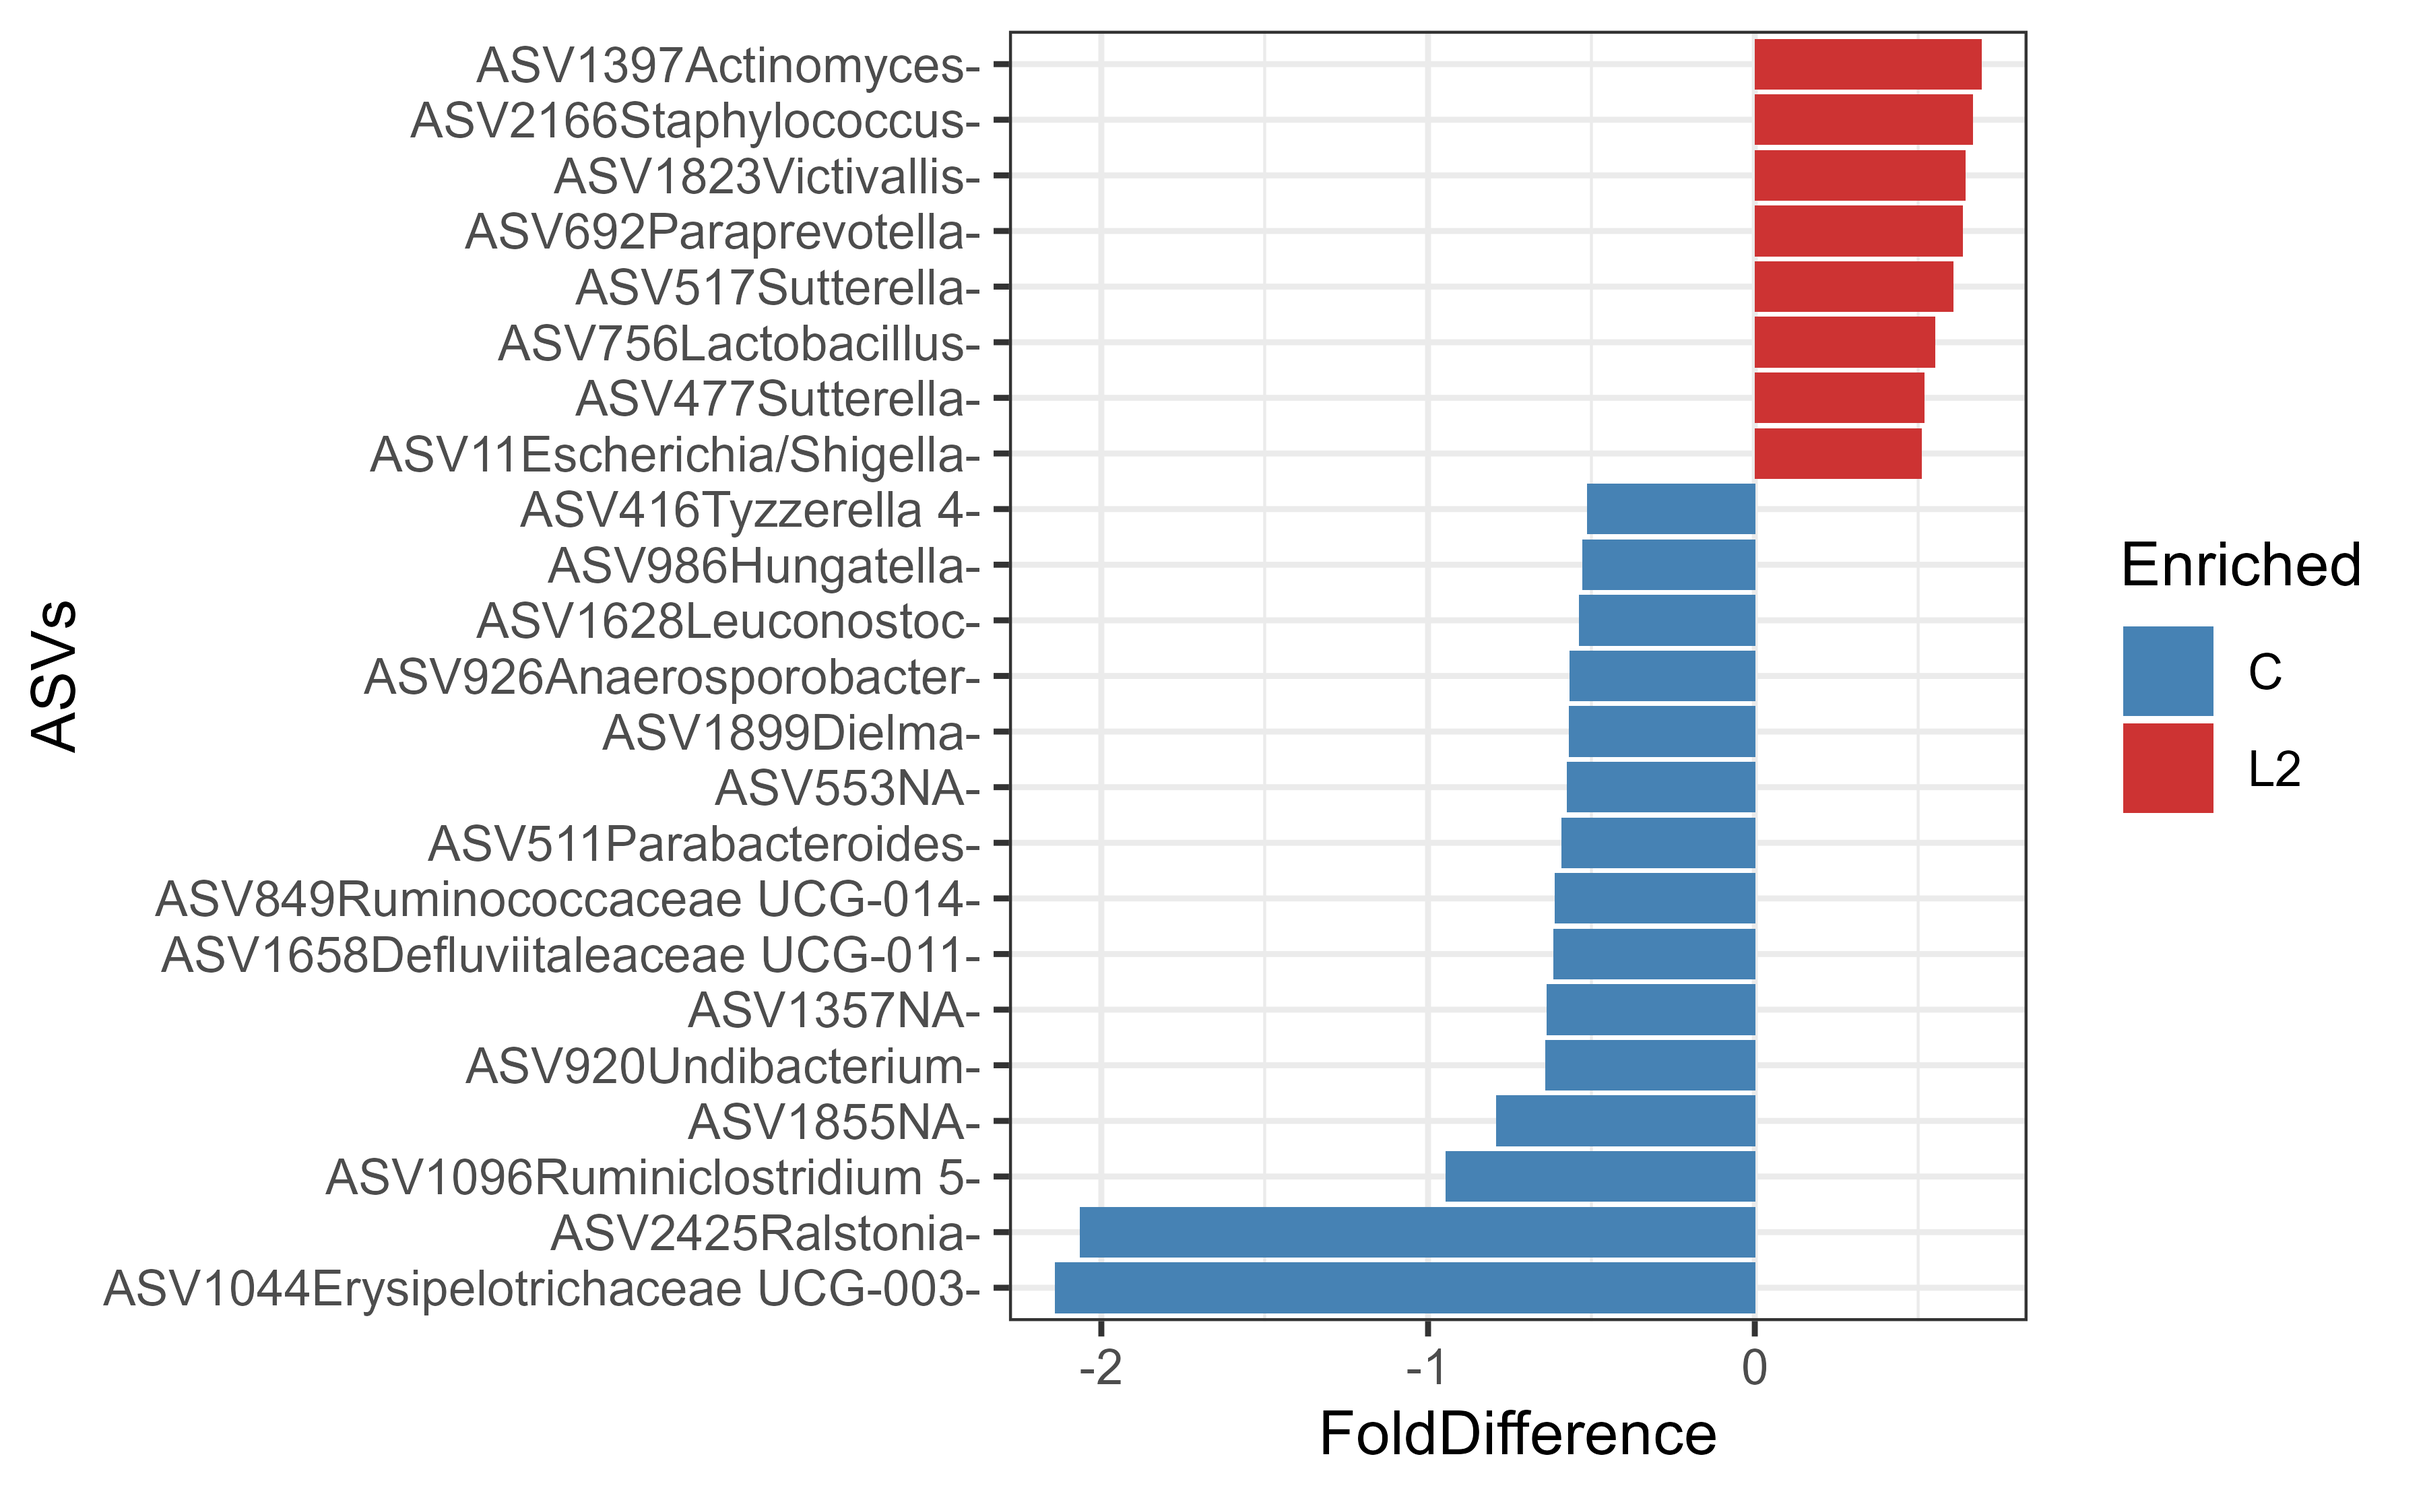
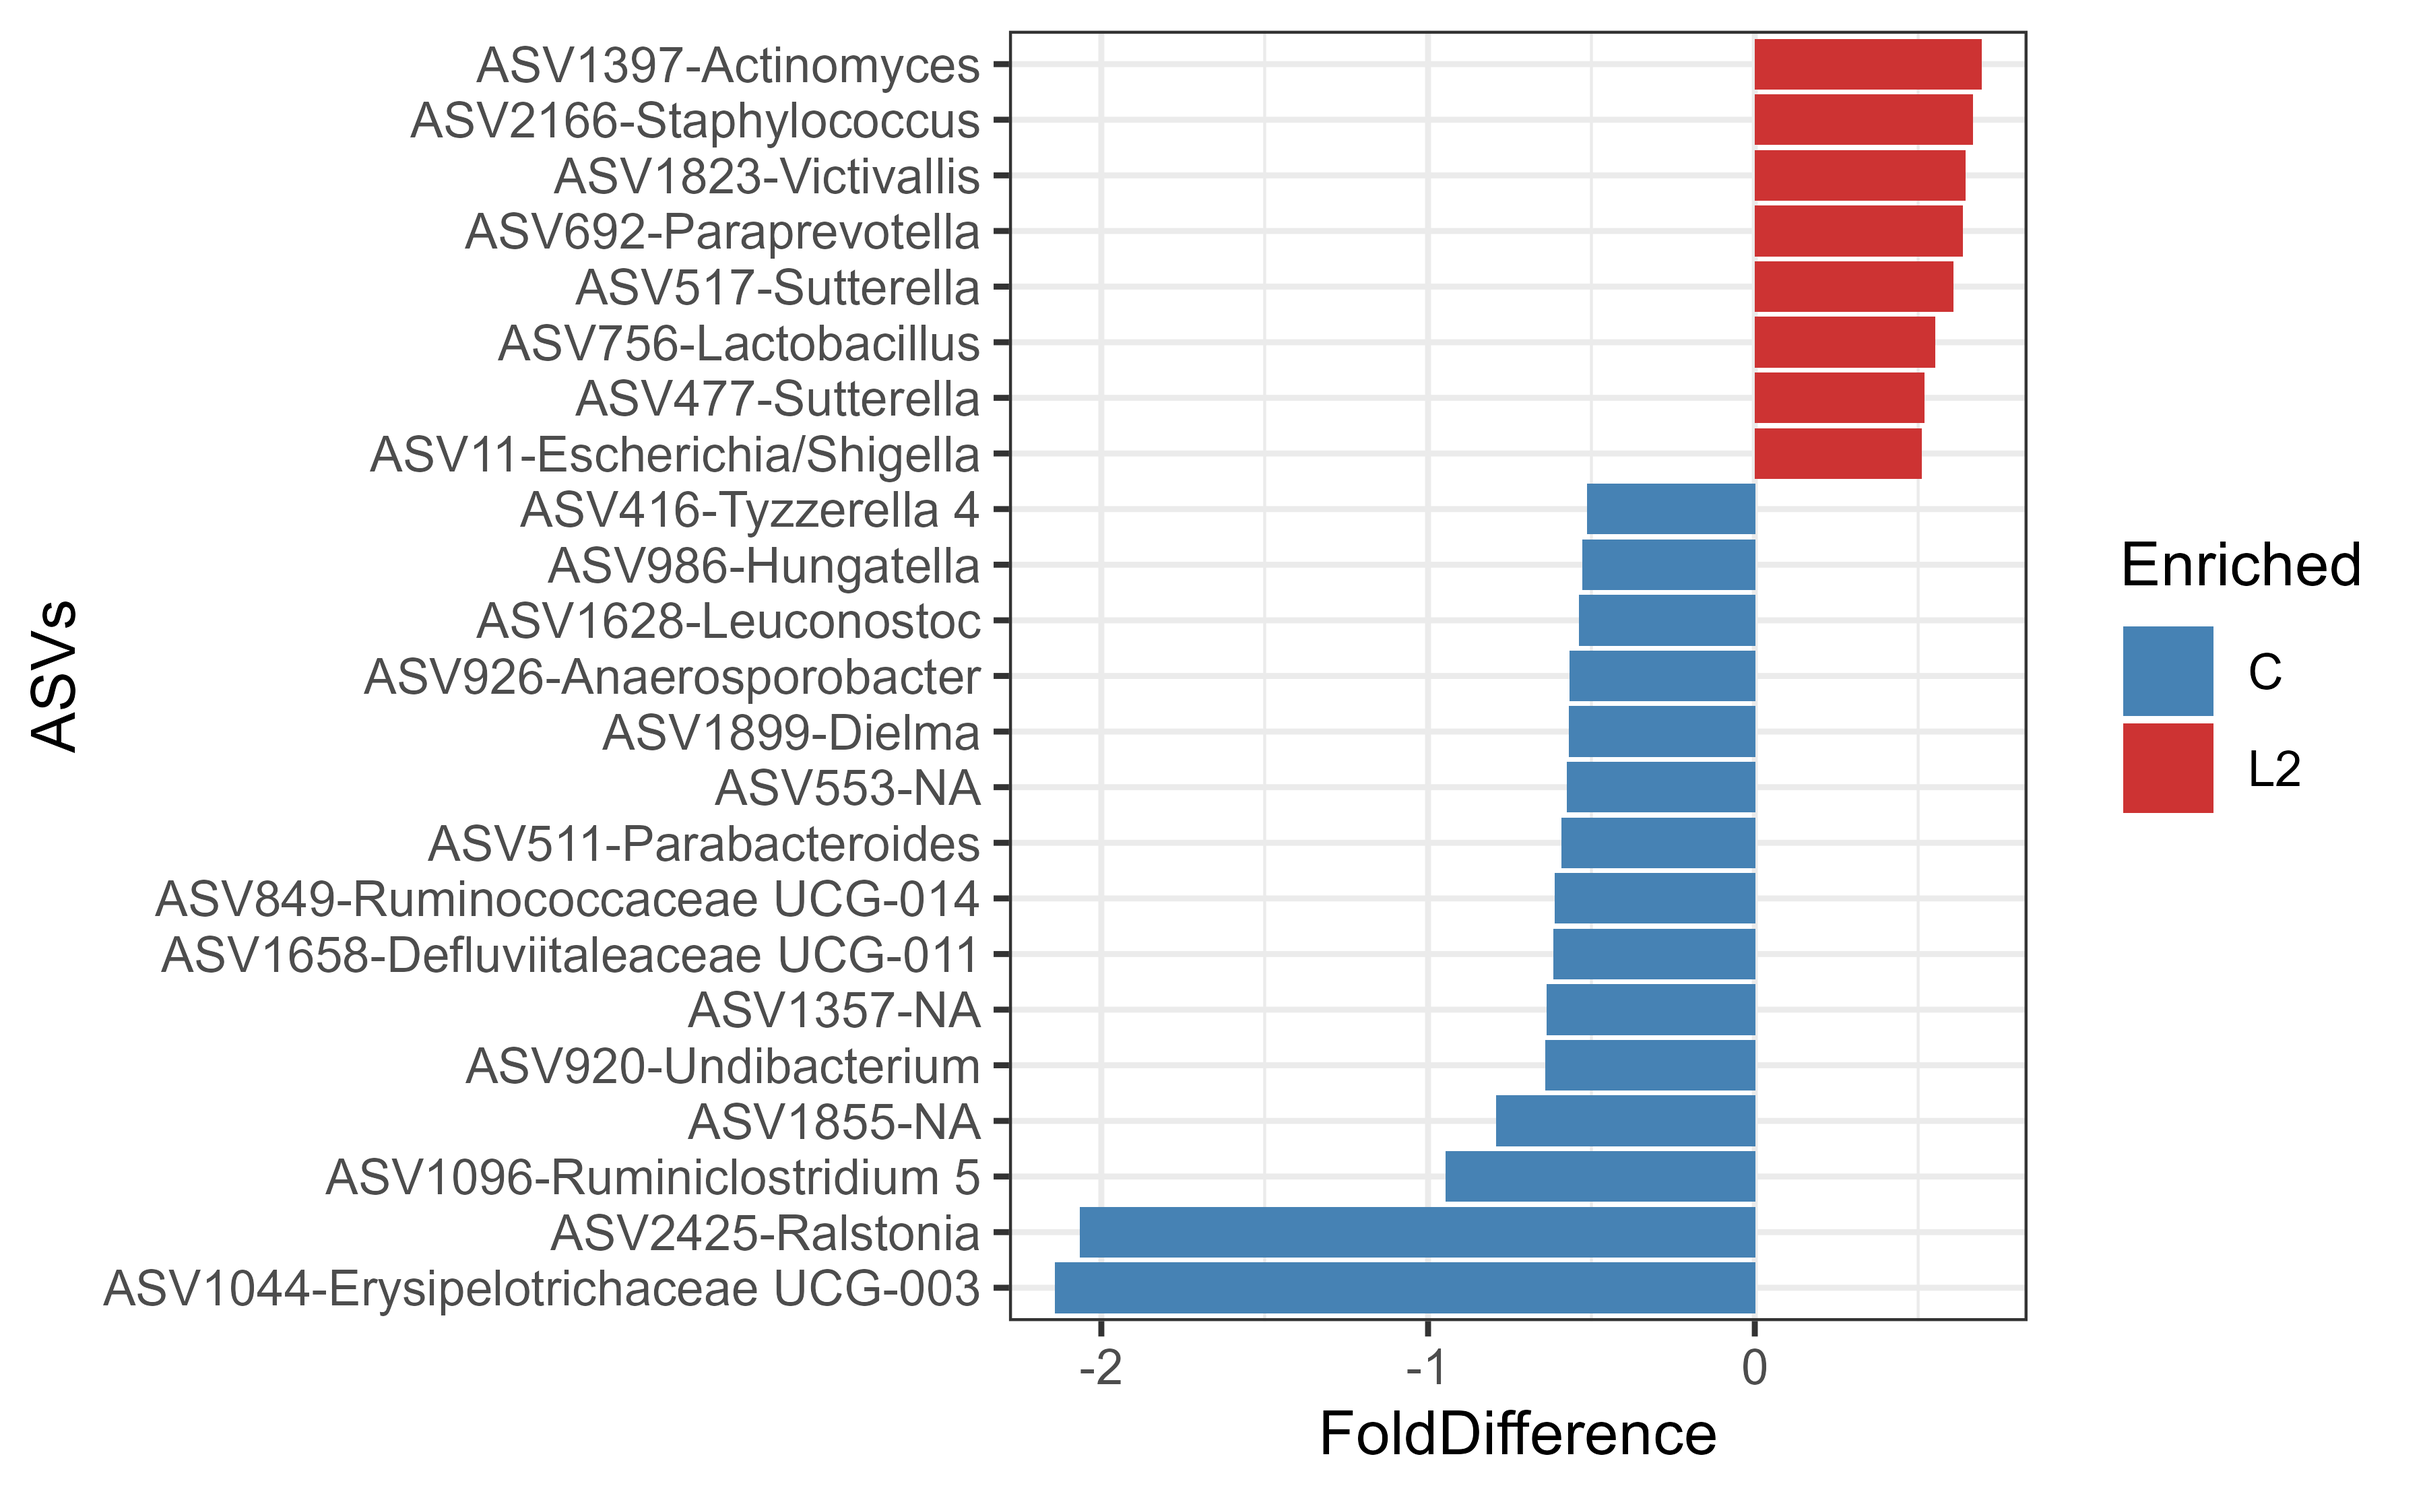
vig add

Changed region(s): [[0.1244, 0.031, 0.4044, 0.8997]]

diff --git a/docs/articles/Introduction.html b/docs/articles/Introduction.html
@@ -355,9 +355,6 @@ Data visualization of different data types.</p></li>
 <span class="co">#&gt;  the random seed of your session for reproducibility.</span>
 <span class="co">#&gt; See `?set.seed`</span>
 <span class="co">#&gt; ...</span>
-<span class="co">#&gt; 1OTUs were removed because they are no longer </span>
-<span class="co">#&gt; present in any sample after random subsampling</span>
-<span class="co">#&gt; ...</span>
 <span class="va">dist.mat</span> <span class="op">&lt;-</span> <span class="fu">phyloseq</span><span class="fu">::</span><span class="fu"><a href="https://rdrr.io/pkg/phyloseq/man/distance.html">distance</a></span><span class="op">(</span><span class="va">ps</span>, <span class="st">"bray"</span><span class="op">)</span>
 <span class="va">dist.melt.sample</span> <span class="op">&lt;-</span> <span class="fu"><a href="../reference/meltDistanceToTable.html">meltDistanceToTable</a></span><span class="op">(</span><span class="va">ps</span>,
                                         dist_mat <span class="op">=</span> <span class="va">dist.mat</span>,
@@ -365,12 +362,12 @@ Data visualization of different data types.</p></li>
                                         select_cols <span class="op">=</span> <span class="fu"><a href="https://rdrr.io/r/base/c.html">c</a></span><span class="op">(</span><span class="st">"participant_id"</span>, <span class="st">"ILI"</span><span class="op">)</span><span class="op">)</span>
 <span class="fu"><a href="https://rdrr.io/r/utils/head.html">head</a></span><span class="op">(</span><span class="va">dist.melt.sample</span><span class="op">)</span>
 <span class="co">#&gt;         S1       S2 Bray.Curtis participant_id_S1 ILI_S1 participant_id_S2</span>
-<span class="co">#&gt; 1 sample_2 sample_1   0.5556264              ELD2      C              ELD1</span>
-<span class="co">#&gt; 2 sample_3 sample_1   0.5768565              ELD3      C              ELD1</span>
-<span class="co">#&gt; 3 sample_4 sample_1   0.5525285              ELD4      C              ELD1</span>
-<span class="co">#&gt; 4 sample_5 sample_1   0.6490205              ELD5     L1              ELD1</span>
-<span class="co">#&gt; 5 sample_6 sample_1   0.7296583              ELD6      C              ELD1</span>
-<span class="co">#&gt; 6 sample_7 sample_1   0.5919818              ELD7     L1              ELD1</span>
+<span class="co">#&gt; 1 sample_2 sample_1   0.5549886              ELD2      C              ELD1</span>
+<span class="co">#&gt; 2 sample_3 sample_1   0.5780410              ELD3      C              ELD1</span>
+<span class="co">#&gt; 3 sample_4 sample_1   0.5559909              ELD4      C              ELD1</span>
+<span class="co">#&gt; 4 sample_5 sample_1   0.6370843              ELD5     L1              ELD1</span>
+<span class="co">#&gt; 5 sample_6 sample_1   0.7376765              ELD6      C              ELD1</span>
+<span class="co">#&gt; 6 sample_7 sample_1   0.5887016              ELD7     L1              ELD1</span>
 <span class="co">#&gt;   ILI_S2</span>
 <span class="co">#&gt; 1      C</span>
 <span class="co">#&gt; 2      C</span>
@@ -410,7 +407,7 @@ Below we use four R packages in combination to check for differences in ASVs bet
            <span class="va">Prevalence.C</span> <span class="op">!=</span> <span class="fl">0</span> <span class="op">&amp;</span>  <span class="co"># Remove ASVs not detected in Controls  </span>
            <span class="va">Prevalence.L2</span> <span class="op">!=</span> <span class="fl">0</span><span class="op">)</span> <span class="op">%&gt;%</span> <span class="co"># Remove ASVs not detected in L2</span>
   <span class="co"># join genus name to FeatureID</span>
-  <span class="fu"><a href="https://dplyr.tidyverse.org/reference/mutate.html">mutate</a></span><span class="op">(</span>asv.genus <span class="op">=</span> <span class="fu"><a href="https://rdrr.io/r/base/paste.html">paste0</a></span><span class="op">(</span><span class="va">FeatureID</span>, <span class="va">Genus</span>, sep<span class="op">=</span><span class="st">"-"</span><span class="op">)</span><span class="op">)</span> <span class="op">%&gt;%</span> 
+  <span class="fu"><a href="https://dplyr.tidyverse.org/reference/mutate.html">mutate</a></span><span class="op">(</span>asv.genus <span class="op">=</span> <span class="fu"><a href="https://rdrr.io/r/base/paste.html">paste0</a></span><span class="op">(</span><span class="va">FeatureID</span>, <span class="st">"-"</span>, <span class="va">Genus</span><span class="op">)</span><span class="op">)</span> <span class="op">%&gt;%</span> 
   <span class="co"># Plot fold difference Notice that from here on below we use '+'</span>
   <span class="fu"><a href="https://ggplot2.tidyverse.org/reference/ggplot.html">ggplot</a></span><span class="op">(</span><span class="fu"><a href="https://ggplot2.tidyverse.org/reference/aes.html">aes</a></span><span class="op">(</span><span class="va">FoldDifference</span>, <span class="fu"><a href="https://rdrr.io/r/stats/reorder.factor.html">reorder</a></span><span class="op">(</span><span class="va">asv.genus</span>, <span class="va">FoldDifference</span><span class="op">)</span><span class="op">)</span><span class="op">)</span> <span class="op">+</span>
   <span class="fu"><a href="https://ggplot2.tidyverse.org/reference/geom_bar.html">geom_col</a></span><span class="op">(</span><span class="fu"><a href="https://ggplot2.tidyverse.org/reference/aes.html">aes</a></span><span class="op">(</span>fill<span class="op">=</span><span class="va">Enriched</span><span class="op">)</span><span class="op">)</span> <span class="op">+</span> 

diff --git a/docs/reference/clusterASVs.html b/docs/reference/clusterASVs.html
@@ -215,59 +215,59 @@ Default= 0.01 i.e. 99 percent identity</p></td>
 </div><div class='output co'>#&gt; Determining distance matrix based on shared 8-mers:
 #&gt; ================================================================================
 #&gt; 
-#&gt; Time difference of 0.08 secs
+#&gt; Time difference of 0.03 secs
 #&gt; 
 #&gt; Clustering into groups by similarity:
 #&gt; ================================================================================
 #&gt; 
-#&gt; Time difference of 0.05 secs
+#&gt; Time difference of 0.03 secs
 #&gt; 
 #&gt; Aligning Sequences:
 #&gt; ================================================================================
 #&gt; 
-#&gt; Time difference of 2.82 secs
+#&gt; Time difference of 2.73 secs
 #&gt; 
 #&gt; Iteration 1 of 2:
 #&gt; 
 #&gt; Determining distance matrix based on alignment:
 #&gt; ================================================================================
 #&gt; 
-#&gt; Time difference of 0.01 secs
+#&gt; Time difference of 0.02 secs
 #&gt; 
 #&gt; Reclustering into groups by similarity:
 #&gt; ================================================================================
 #&gt; 
-#&gt; Time difference of 0.04 secs
+#&gt; Time difference of 0.06 secs
 #&gt; 
 #&gt; Realigning Sequences:
 #&gt; ================================================================================
 #&gt; 
-#&gt; Time difference of 1.48 secs
+#&gt; Time difference of 1.55 secs
 #&gt; 
 #&gt; Iteration 2 of 2:
 #&gt; 
 #&gt; Determining distance matrix based on alignment:
 #&gt; ================================================================================
 #&gt; 
-#&gt; Time difference of 0.01 secs
+#&gt; Time difference of 0 secs
 #&gt; 
 #&gt; Reclustering into groups by similarity:
 #&gt; ================================================================================
 #&gt; 
-#&gt; Time difference of 0.04 secs
+#&gt; Time difference of 0.03 secs
 #&gt; 
 #&gt; Realigning Sequences:
 #&gt; ================================================================================
 #&gt; 
-#&gt; Time difference of 0.4 secs
+#&gt; Time difference of 0.39 secs
 #&gt; 
 #&gt; ================================================================================
 #&gt; 
-#&gt; Time difference of 0.01 secs
+#&gt; Time difference of 0.02 secs
 #&gt; 
 #&gt; ================================================================================
 #&gt; 
-#&gt; Time difference of 0.01 secs
+#&gt; Time difference of 0 secs
 #&gt; </div><div class='input'>
 </div></pre>
   </div>

diff --git a/docs/reference/buildSeqTree.html b/docs/reference/buildSeqTree.html
@@ -185,17 +185,17 @@
 </div><div class='output co'>#&gt; Determining distance matrix based on shared 8-mers:
 #&gt; ================================================================================
 #&gt; 
-#&gt; Time difference of 0.05 secs
+#&gt; Time difference of 0.16 secs
 #&gt; 
 #&gt; Clustering into groups by similarity:
 #&gt; ================================================================================
 #&gt; 
-#&gt; Time difference of 0.01 secs
+#&gt; Time difference of 0 secs
 #&gt; 
 #&gt; Aligning Sequences:
 #&gt; ================================================================================
 #&gt; 
-#&gt; Time difference of 0.07 secs
+#&gt; Time difference of 0.11 secs
 #&gt; 
 #&gt; Iteration 1 of 2:
 #&gt; 
@@ -212,7 +212,7 @@
 #&gt; Realigning Sequences:
 #&gt; ================================================================================
 #&gt; 
-#&gt; Time difference of 0.06 secs
+#&gt; Time difference of 0.04 secs
 #&gt; 
 #&gt; Iteration 2 of 2:
 #&gt; 
@@ -229,7 +229,7 @@
 #&gt; Realigning Sequences:
 #&gt; ================================================================================
 #&gt; 
-#&gt; Time difference of 0 secs
+#&gt; Time difference of 0.02 secs
 #&gt; </div><div class='input'><span class='va'>sp.tree</span><span class='op'>$</span><span class='va'>tree</span>
 </div><div class='output co'>#&gt; 
 #&gt; Phylogenetic tree with 5 tips and 3 internal nodes.
